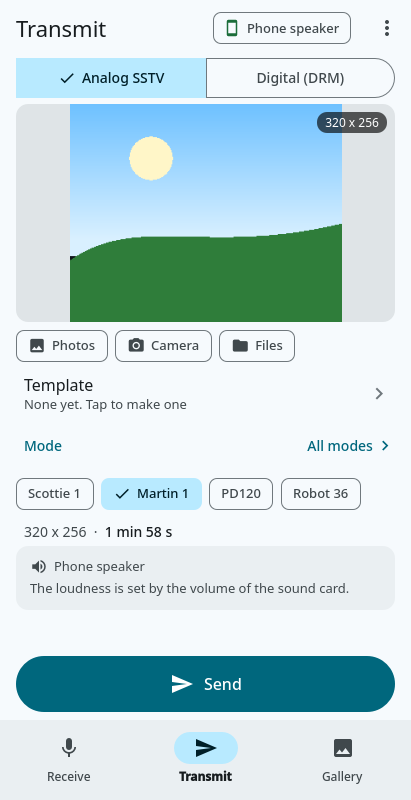
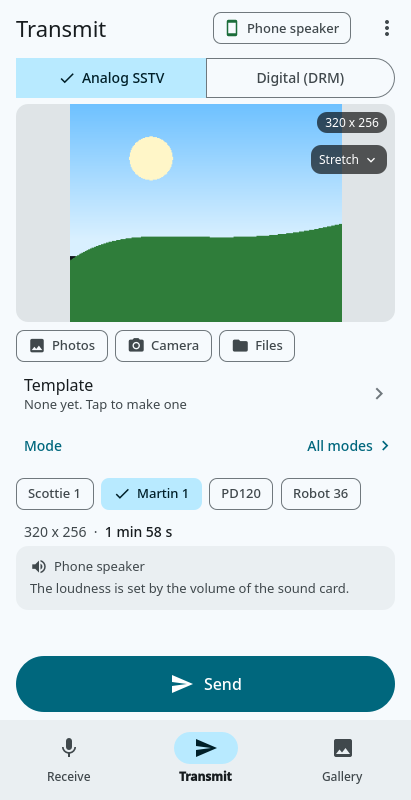
Android: the framing choice is a pill on the picture, under its size, so the Transmit screen has room for the volume (#178).
The Framing row under the picture (label, Reset, four chips, hint) is gone. A dark pill at the top right of the picture, under the size pill, names the framing (Stretch, Crop, Fit or Free) and a tap lists the four with the chosen one checked. Reset is a pill under it once the free picture has been moved; the hint "Pinch to zoom, drag to move." is a pill at the bottom of the picture while Free is chosen and the picture is not yet moved. A single digital picture (always Free) has no framing pill, only the hint and Reset. The pills are off while sending. At 411 x 800 the volume slider now ends 20 dp above the Send bar without scrolling; on small phones, with large text, in landscape and on the digital side it can still scroll out of view.

New PicturePill.qml, ThemedMenuItem got an optional check mark, FramingBlock.qml is removed. tests/qmlui: tx-framing and tx-digital-framing follow the pills, new scenes tx-framing-free, tx-framing-menu and tx-volume-room (fails on a tall phone if the slider is below the Send bar, reports the margin elsewhere). User's Guide and android-transmit.png updated.

Changed region(s): [[0.7591, 0.1562, 0.9635, 0.2188]]

diff --git a/src/qml/ui/TxPictureBlock.qml b/src/qml/ui/TxPictureBlock.qml
@@ -1,7 +1,8 @@
 import QtQuick
+import QtQuick.Controls.Material
 import QSSTV
 
-// The picture that will be sent, and where a picture comes from
+// The picture that will be sent, how it is framed, and where a picture comes from
 Column {
     id: block
     spacing: 8
@@ -111,12 +112,61 @@ Column {
                 font.pixelSize: Theme.sp(14)
             }
         }
-        Rectangle {
-            visible: TxController.hasPicture && !AppModel.digital
-            anchors.right: parent.right; anchors.top: parent.top; anchors.margins: 8
-            radius: 10; color: Theme.pictureShade
-            width: sizeText.implicitWidth + 16; height: sizeText.implicitHeight + 4
-            Text { id: sizeText; anchors.centerIn: parent; text: TxController.pictureSize; color: Theme.onPicture; font.pixelSize: Theme.sp(12) }
+        // at the top right, one under the other: the size of the picture; how it is framed (a tap lists Stretch, Crop, Fit and Free); Reset, once the
+        // free picture has been moved (#178: they were a row of their own under the picture, which took the room of the volume)
+        Column {
+            x: 8; y: 8
+            width: parent.width - 16
+            spacing: 12
+            PicturePill {
+                x: parent.width - width
+                visible: TxController.hasPicture && !AppModel.digital
+                text: TxController.pictureSize
+            }
+            PicturePill {
+                id: framingChip
+                objectName: "framingChip"
+                x: parent.width - width
+                visible: TxController.hasPicture && TxController.framingChoice
+                tappable: true
+                enabled: !TxController.sending
+                readonly property string name: [qsTr("Stretch"), qsTr("Crop"), qsTr("Fit"), qsTr("Free")][TxController.framing] || ""
+                text: name
+                trailingIcon: Icons.expand
+                onClicked: framingMenu.open()
+                Accessible.name: qsTr("Framing") + ", " + name
+                Menu {
+                    id: framingMenu
+                    objectName: "framingMenu"
+                    x: parent.width - width
+                    y: parent.height + 4
+                    background: Rectangle { implicitWidth: 160; color: Theme.surfaceHigh; radius: 4; border.width: 1; border.color: Theme.outlineVariant }
+                    ThemedMenuItem { objectName: "framingStretch"; text: qsTr("Stretch"); markColumn: true; marked: TxController.framing === 0; onTriggered: TxController.framing = 0 }
+                    ThemedMenuItem { objectName: "framingCrop"; text: qsTr("Crop"); markColumn: true; marked: TxController.framing === 1; onTriggered: TxController.framing = 1 }
+                    ThemedMenuItem { objectName: "framingFit"; text: qsTr("Fit"); markColumn: true; marked: TxController.framing === 2; onTriggered: TxController.framing = 2 }
+                    ThemedMenuItem { objectName: "framingFree"; text: qsTr("Free"); markColumn: true; marked: TxController.framing === 3; onTriggered: TxController.framing = 3 }
+                }
+            }
+            PicturePill {
+                objectName: "framingReset"
+                x: parent.width - width
+                visible: TxController.framingMoved
+                tappable: true
+                enabled: !TxController.sending
+                icon: Icons.reset
+                text: qsTr("Reset")
+                onClicked: TxController.resetFraming()
+                Accessible.name: qsTr("Reset zoom and position")
+            }
+        }
+        // how to place a free picture; gone once the picture has been moved (the Reset pill is there then)
+        PicturePill {
+            objectName: "framingHint"
+            anchors.horizontalCenter: parent.horizontalCenter
+            anchors.bottom: parent.bottom; anchors.bottomMargin: 8
+            visible: TxController.hasPicture && TxController.framingFree && !TxController.framingMoved && !TxController.sending
+            announced: true
+            text: qsTr("Pinch to zoom, drag to move.")
         }
         Accessible.role: Accessible.Graphic
         Accessible.name: TxController.hasPicture ? qsTr("Picture to send, %1").arg(TxController.pictureSize) : qsTr("No picture chosen")
@@ -124,8 +174,7 @@ Column {
     // the highest the picture may be in a screen that is short (set by the screen)
     property real maxCanvasHeight: 400
     // what lies under the picture (for a screen that shows this block beside the options and keeps the picture from taking all the height)
-    readonly property real belowHeight: (framing.visible ? framing.height + spacing : 0) + pickers.height + spacing
-    FramingBlock { id: framing; width: parent.width }
+    readonly property real belowHeight: pickers.height + spacing
     Flow {
         id: pickers
         x: Theme.margin

diff --git a/documentation/userguide/pages/android.html b/documentation/userguide/pages/android.html
@@ -62,7 +62,7 @@ title, the <strong>route chip</strong> that says where the sound goes (<em>Phone
 </div>
 <ul>
 <li><strong>The picture.</strong> <span class="ui">Photos</span> opens Android's photo picker, <span class="ui">Camera</span> takes a picture, <span class="ui">Files</span> opens the file picker. A picture shared from another app (<em>Share &gt; QSSTV-Experimental</em>) arrives here too, and so does one chosen in the Gallery.</li>
-<li><strong>Framing.</strong> Under the picture: how it fits the frame of the mode. <span class="ui">Stretch</span> fills the frame and may squash the picture, <span class="ui">Crop</span> fills it and cuts off the edges, <span class="ui">Fit</span> shows the whole picture with bars where it is too narrow, and with <span class="ui">Free</span> you place it yourself: pinch to zoom, drag to move, and <span class="ui">Reset</span> puts the whole picture back. A single picture on the <span class="ui">Digital (DRM)</span> side is always Free, so the four buttons are not there. The choice is kept, and it cannot be changed while a picture is being sent.</li>
+<li><strong>Framing.</strong> How the picture fits the frame of the mode: the small dark button at the top right of the picture, under its size, names the choice. Tap it to see the list. <span class="ui">Stretch</span> fills the frame and may squash the picture, <span class="ui">Crop</span> fills it and cuts off the edges, <span class="ui">Fit</span> shows the whole picture with bars where it is too narrow, and with <span class="ui">Free</span> you place it yourself: pinch to zoom, drag to move (a hint on the picture says so until you have moved it), and <span class="ui">Reset</span>, a button that appears under the framing one, puts the whole picture back. A single picture on the <span class="ui">Digital (DRM)</span> side is always Free, so the framing button is not there. The choice is kept, and it cannot be changed while a picture is being sent.</li>
 <li><strong>Template.</strong> The template that goes on the picture. Tap the row to choose one from the list (with a small picture of each), <span class="ui">None</span> to send the picture as it is, to <span class="ui">Edit this template</span> or to make a <span class="ui">New template</span>; see <em>Templates</em> below.</li>
 <li><strong>Details.</strong> Appears under <em>Template</em> while a template is on the picture. Tap it to set who the picture is for, the operator name and the report; your call sign comes from the settings.</li>
 <li><strong>The mode.</strong> The four buttons are favorites (Scottie 1, Martin 1, PD120, Robot 36); they stay in one row, so slide it sideways when the screen is too narrow to show them all. <span class="ui">All modes</span> lists every mode with its picture size and time. The time the transmission takes is always shown. On the <span class="ui">Digital (DRM)</span> side you choose one of the saved profiles and the size of the picture, with the estimated time.</li>

diff --git a/src/qml/ui/PicturePill.qml b/src/qml/ui/PicturePill.qml
@@ -1,0 +1,37 @@
+import QtQuick
+import QSSTV
+
+// A small dark pill on a picture: the size of the picture, how it is framed, Reset, a hint. With tappable it is a button; the taps it takes reach
+// tapGap beyond the pill, so pills that are tappable must be at least 2 x tapGap apart (the Column on the picture keeps them 12 dp apart).
+Rectangle {
+    id: pill
+    property string text
+    property string icon           // before the words
+    property string trailingIcon   // after the words (a down arrow says that a list opens)
+    property bool tappable: false
+    readonly property real tapGap: 6
+    signal clicked()
+    radius: 10
+    color: Theme.pictureShade
+    implicitWidth: row.implicitWidth + 16
+    implicitHeight: row.implicitHeight + (tappable ? 12 : 4)
+    opacity: enabled ? 1 : 0.38
+    Row {
+        id: row
+        anchors.centerIn: parent
+        spacing: 4
+        Icon { visible: pill.icon !== ""; path: pill.icon; color: Theme.onPicture; size: 16; anchors.verticalCenter: parent.verticalCenter }
+        Text { text: pill.text; color: Theme.onPicture; font.pixelSize: Theme.sp(12); anchors.verticalCenter: parent.verticalCenter }
+        Icon { visible: pill.trailingIcon !== ""; path: pill.trailingIcon; color: Theme.onPicture; size: 16; anchors.verticalCenter: parent.verticalCenter }
+    }
+    TapHandler {
+        enabled: pill.tappable
+        margin: pill.tapGap
+        onTapped: { pill.clicked(); AppModel.haptic(0) }
+    }
+    property bool announced: tappable   // a pill that only says something is read when it says more than the picture does (the hint), not for the size
+    Accessible.ignored: !announced
+    Accessible.role: tappable ? Accessible.Button : Accessible.StaticText
+    Accessible.name: text
+    Accessible.onPressAction: { if (tappable) pill.clicked() }
+}

diff --git a/src/qml/ui/ThemedMenuItem.qml b/src/qml/ui/ThemedMenuItem.qml
@@ -1,16 +1,33 @@
 import QtQuick
 import QtQuick.Controls.Material
 
-// One entry of the menu of the top bar, in the colors of the look
+// One entry of a menu, in the colors of the look. markColumn keeps room before the words for a check, and marked draws it (a menu that lists
+// the choices of one setting: the chosen one is checked); the menu of the top bar has neither.
 MenuItem {
     id: item
+    property bool marked: false
+    property bool markColumn: false
     implicitHeight: 48
-    contentItem: Text {
-        text: item.text
-        color: item.enabled ? Theme.surfaceOn : Theme.surfaceVariantOn
-        font.pixelSize: Theme.sp(16)
-        verticalAlignment: Text.AlignVCenter
-        elide: Text.ElideRight
+    contentItem: Item {
+        readonly property real lead: item.markColumn ? 28 : 0
+        implicitWidth: lead + label.implicitWidth
+        implicitHeight: label.implicitHeight
+        Icon {
+            visible: item.markColumn && item.marked
+            path: Icons.check; color: Theme.primary; size: 18
+            anchors.verticalCenter: parent.verticalCenter
+        }
+        Text {
+            id: label
+            x: parent.lead
+            width: parent.width - parent.lead
+            height: parent.height
+            text: item.text
+            color: item.enabled ? Theme.surfaceOn : Theme.surfaceVariantOn
+            font.pixelSize: Theme.sp(16)
+            verticalAlignment: Text.AlignVCenter
+            elide: Text.ElideRight
+        }
     }
     background: Rectangle { color: item.highlighted || item.down ? Theme.surfaceHigh : "transparent" }
 }

diff --git a/src/qml/ui/TransmitScreen.qml b/src/qml/ui/TransmitScreen.qml
@@ -22,6 +22,7 @@ Item {
     // Send, at the thumb, under everything
     Item {
         id: sendBar
+        objectName: "sendBar"
         anchors.left: parent.left; anchors.right: parent.right; anchors.bottom: parent.bottom
         height: 56 + 16
         WideButton {
@@ -59,7 +60,7 @@ Item {
         Item {
             visible: screen.wide
             anchors.fill: parent
-            // the picture, the framing and the ways to get a picture: they scroll when the screen is too low for them (a phone on its side)
+            // the picture (with its framing) and the ways to get a picture: they scroll when the screen is too low for them (a phone on its side)
             Flickable {
                 anchors.left: parent.left; anchors.top: parent.top; anchors.bottom: parent.bottom
                 width: parent.width * 0.5

diff --git a/tests/qmlui/shot.cpp b/tests/qmlui/shot.cpp
@@ -65,6 +65,16 @@ static QQuickItem *findShown(QQuickItem *root, const QString &name)
   return nullptr;
 }
 
+// is an item that is shown holding exactly this text (a Text, a chip, a pill)?
+static bool shownText(QQuickItem *root, const QString &word)
+{
+  if (!root->isVisible()) return false;
+  if (root->property("text").isValid() && root->property("text").toString() == word) return true;
+  for (QQuickItem *c : root->childItems())
+    if (shownText(c, word)) return true;
+  return false;
+}
+
 static void feedWaterfall(int frames)
 {
   // what the receiver sends the spectrum display: tones of an SSTV line and some noise
@@ -258,6 +268,8 @@ int main(int argc, char **argv)
         for (QQuickItem *c : it->childItems()) closeStarters(c);
       };
       closeStarters(win->contentItem());
+      // the list of the framing pill (tx-framing-menu) is a popup too
+      if (findShown(win->contentItem(), "framingStretch")) {QTest::keyClick(win, Qt::Key_Escape); QTest::qWait(300);}
       if (QQuickItem *box = findItem(win->contentItem(), "problemDialog")) box->setProperty("open", false);   // a scene that showed one does not leave it over the next
       if (QQuickItem *box = findItem(win->contentItem(), "speakerDialog")) box->setProperty("open", false);
       TxController::instance()->setTestSending(-1);
@@ -610,6 +622,9 @@ int main(int argc, char **argv)
           auto is = [](const QColor &a, const QColor &b) {return qAbs(a.red() - b.red()) + qAbs(a.green() - b.green()) + qAbs(a.blue() - b.blue()) < 100;};
           auto pageBox = [&]() {QComboBox *b = txWidgetPtr->findChild<QComboBox *>(QStringLiteral("sstvResizeComboBox")); return b ? b->currentIndex() : -1;};
           auto frame = [&](int mode) {tx->setFraming(mode); QTest::qWait(200); tx->picture().save(QString("%1/framing-%2x%3-%4.png").arg(outDir).arg(width).arg(height).arg(mode)); return tx->picture();};   // the frames are kept for looking at
+          // the framing is a pill on the picture (#178): it names the framing, and the hint on how to place the picture is there while Free is not moved
+          auto pillWord = [&]() {QQuickItem *p = findShown(content, "framingChip"); return p ? p->property("text").toString() : QString();};
+          auto hintShown = [&]() {return findShown(content, "framingHint") != nullptr;};
           // the width of the white square in the middle of the picture, in the middle row of a frame
           auto whiteRun = [](const QImage &f) {
             int best = 0, run = 0;
@@ -627,18 +642,24 @@ int main(int argc, char **argv)
           if (!tx->framingChoice()) fail("no choice of framing in an analog mode");
           frame(0);   // Stretch: everything of the picture, the green column at the left edge, no bars
           if (tx->framing() != 0 || pageBox() != 0) fail("Stretch is not the page's framing");
+          if (pillWord() != QStringLiteral("Stretch") || hintShown()) fail("the pill does not say Stretch, or there is a hint to place the picture");
+          if (shownText(content, QStringLiteral("Framing"))) fail("the word Framing is still on the screen");
           if (!is(at(0.005, 0.5), green) || !is(at(0.5, 0.01), blue)) fail("Stretch does not fill the frame with the whole picture");
           frame(1);   // Crop: fills the frame, the edges are cut off (a 2:1 picture in a frame near 5:4)
           if (tx->framing() != 1 || pageBox() != 1) fail("Crop is not the page's framing");
+          if (pillWord() != QStringLiteral("Crop") || hintShown()) fail("the pill does not say Crop, or there is a hint to place the picture");
           if (is(at(0.005, 0.5), green) || !is(at(0.5, 0.01), blue)) fail("Crop does not cut the edges and fill the frame");
           frame(2);   // Fit: the whole picture, bars above and below
           if (tx->framing() != 2 || pageBox() != 2) fail("Fit is not the page's framing");
+          if (pillWord() != QStringLiteral("Fit") || hintShown()) fail("the pill does not say Fit, or there is a hint to place the picture");
           // the bars of Fit are empty (they go out black); the ones of Free are the background color of the pictures
           if (!is(at(0.005, 0.5), green) || !is(at(0.5, 0.01), QColor(Qt::black)) || !is(at(0.5, 0.99), QColor(Qt::black))) fail("Fit does not show the whole picture between bars");
           if (tx->framingFree() || tx->framingMoved()) fail("Fit is placed by hand");
           frame(3);   // Free: as Fit to begin with
           if (tx->framing() != 3 || pageBox() != 3) fail("Free is not the page's framing");
           if (!tx->framingFree() || tx->framingMoved()) fail("Free is not ready to be placed, or already moved");
+          if (pillWord() != QStringLiteral("Free") || !hintShown()) fail("the pill does not say Free, or there is no hint to place the picture");
+          if (findShown(content, "framingReset")) fail("a Reset pill for a picture that is not moved");
           if (!is(at(0.005, 0.5), green) || !is(at(0.5, 0.01), grey)) fail("Free does not begin with the whole picture");
           whiteBefore = whiteRun(tx->picture());
           // the picture moves with a finger: one drag with the mouse on the picture
@@ -655,6 +676,8 @@ int main(int argc, char **argv)
               printf("  drag down: moved %d, bottom bar is %s\n", tx->framingMoved(), is(at(0.5, 0.99), grey) ? "still there" : "gone");
               if (!tx->framingMoved()) fail("a drag on the picture did not move it");
               else if (is(at(0.5, 0.99), grey)) fail("the picture did not move down");
+              if (hintShown()) fail("the hint to place the picture stays after the picture was moved");
+              if (!findShown(content, "framingReset")) fail("no Reset pill after the picture was moved");
               tx->resetFraming();
               QTest::qWait(200);
               if (tx->framingMoved() || !is(at(0.5, 0.99), grey)) fail("Reset did not bring the whole picture back");
@@ -710,21 +733,26 @@ int main(int argc, char **argv)
           if (!is(at(0.02, 0.5), green)) fail("moved as far as it goes, the edge of the picture that was out of the frame does not come in");
           tx->resetFraming();
           QTest::qWait(200);
-          // a tap on the Stretch chip chooses it
-          QQuickItem *chips = findShown(content, "framingChips");
-          QQuickItem *stretch = nullptr;
-          if (chips)
-            if (QQuickItem *ci = qvariant_cast<QQuickItem *>(chips->property("contentItem")))
-              for (QQuickItem *row : ci->childItems())
-                for (QQuickItem *c : row->childItems())
-                  if (c->isVisible() && c->property("text").toString() == QStringLiteral("Stretch")) stretch = c;
-          if (!stretch) fail("no Stretch chip");
+          // a tap on the framing pill lists the choices (the chosen one checked); a tap on Stretch chooses it, and the picture is not moved by the taps
+          QQuickItem *pill = findShown(content, "framingChip");
+          if (!pill) fail("no framing pill on the picture");
           else
             {
-              revealItem(stretch);
-              QTest::mouseClick(win, Qt::LeftButton, {}, stretch->mapToScene(QPointF(stretch->width() / 2, stretch->height() / 2)).toPoint());
-              QTest::qWait(300);
-              if (tx->framing() != 0) fail("a tap on the Stretch chip did not choose Stretch");
+              revealItem(pill);
+              QTest::mouseClick(win, Qt::LeftButton, {}, pill->mapToScene(QPointF(pill->width() / 2, pill->height() / 2)).toPoint());
+              QTest::qWait(500);
+              QQuickItem *stretch = findShown(win->contentItem(), "framingStretch"), *free = findShown(win->contentItem(), "framingFree");
+              if (!stretch || !free) fail("a tap on the framing pill did not list the choices");
+              else
+                {
+                  if (!free->property("marked").toBool() || stretch->property("marked").toBool()) fail("the list does not check the chosen framing (Free)");
+                  QTest::mouseClick(win, Qt::LeftButton, {}, stretch->mapToScene(QPointF(stretch->width() / 2, stretch->height() / 2)).toPoint());
+                  QTest::qWait(400);
+                  if (tx->framing() != 0) fail("a tap on Stretch in the list did not choose Stretch");
+                  if (pillWord() != QStringLiteral("Stretch")) fail("the pill does not follow the choice");
+                  if (tx->framingMoved()) fail("the taps on the pill moved the picture");
+                  if (findShown(win->contentItem(), "framingStretch")) fail("the list stays open after a choice");
+                }
             }
           // while a transmission goes on the picture is not placed
           tx->setFraming(3);
@@ -733,12 +761,40 @@ int main(int argc, char **argv)
           tx->setFraming(1);
           if (tx->framing() != 3) fail("the framing was changed during a transmission");
           if (tx->adjustFraming(2, 0.5, 0.5, 0, 0)) fail("the picture was zoomed during a transmission");
+          QTest::qWait(300);
+          if (hintShown()) fail("the hint to place the picture is shown during a transmission");
+          if (QQuickItem *p = findShown(content, "framingChip")) {if (p->isEnabled()) fail("the framing pill can be tapped during a transmission");}
           tx->setTestSending(-1);
+          QTest::qWait(300);
           // the screenshot: Free, zoomed a little, with the hint and Reset
           if (!tx->adjustFraming(1.6, 0.5, 0.5, 0.05, 0)) fail("no zoom by program");
           QTest::qWait(400);
           if (!tx->framingMoved()) fail("not moved after a zoom");
           if (pageBox() != 3) fail("the page's framing box was left in another position");
+        }
+      if (scene == "tx-framing-free" || scene == "tx-framing-menu")
+        {
+          // Free and not moved yet: the hint is on the picture (the screenshot); tx-framing-menu leaves the list of the framing pill open (the screenshot)
+          TxController *tx = TxController::instance();
+          auto fail = [&](const char *what) {fprintf(stderr, "FAIL: %s: %s\n", qPrintable(scene), what); exitCode = 1;};
+          tx->setFraming(3);
+          QTest::qWait(400);
+          QQuickItem *hint = findShown(content, "framingHint");
+          if (!hint) fail("no hint to place the free picture");
+          else if (hint->mapToScene(QPointF(0, 0)).x() < 0 || hint->mapToScene(QPointF(hint->width(), 0)).x() > width) fail("the hint runs out of the window");
+          if (scene == "tx-framing-menu")
+            {
+              QQuickItem *pill = findShown(content, "framingChip");
+              if (!pill) fail("no framing pill");
+              else
+                {
+                  QTest::mouseClick(win, Qt::LeftButton, {}, pill->mapToScene(QPointF(pill->width() / 2, pill->height() / 2)).toPoint());
+                  QTest::qWait(500);
+                  QQuickItem *crop = findShown(win->contentItem(), "framingCrop");
+                  if (!crop) fail("the list of choices is not open");
+                  else if (crop->mapToScene(QPointF(0, 0)).x() < 0 || crop->mapToScene(QPointF(crop->width(), 0)).x() > width) fail("the list runs out of the window");
+                }
+            }
         }
       if (scene == "tx-digital-framing")
         {
@@ -749,6 +805,8 @@ int main(int argc, char **argv)
           if (tx->framingChoice()) fail("a choice of framing for a single digital picture");
           if (tx->framing() != 3) fail("a single digital picture is not Free");
           if (!tx->framingFree()) fail("a single digital picture cannot be placed");
+          if (findShown(content, "framingChip")) fail("a framing pill for a single digital picture");
+          if (!findShown(content, "framingHint")) fail("no hint to place the digital picture");
           tx->setFraming(0);
           if (tx->framing() != 3) fail("the framing of a single digital picture was changed");
           const int before = tx->pictureRevision();
@@ -756,6 +814,8 @@ int main(int argc, char **argv)
           QTest::qWait(2500);   // it is drawn and encoded again once the movement has settled
           printf("  digital zoom: moved %d, picture revision %d -> %d\n", tx->framingMoved(), before, tx->pictureRevision());
           if (!tx->framingMoved()) fail("the digital picture is not moved after a zoom");
+          if (!findShown(content, "framingReset")) fail("no Reset pill for the moved digital picture");
+          if (findShown(content, "framingHint")) fail("the hint to place the digital picture stays after it was moved");
           if (tx->pictureRevision() == before) fail("the digital picture was not drawn again");
         }
       if (scene == "tx-sending" || scene == "tx-sending-mismatch" || scene.startsWith("tx-digital-sending"))
@@ -815,6 +875,24 @@ int main(int argc, char **argv)
               // there is no sound card here: the restarts said so in a "Soundcard error" box, which must not stay over the scenes that follow
               if (QQuickItem *box = findItem(win->contentItem(), "problemDialog")) box->setProperty("open", false);
               QTest::qWait(300);
+            }
+        }
+      if (scene == "tx-volume-room")
+        {
+          // the volume card (the device, the percentage, the slider) is in view above the Send bar without scrolling the page (#178: the framing row under the
+          // picture used to push it out of view). On a tall phone that is a failure; on a small one, with large text, or a phone on its side, it is only reported
+          auto fail = [&](const char *what) {fprintf(stderr, "FAIL: tx-volume-room: %s\n", what); exitCode = 1;};
+          QQuickItem *slider = findShown(content, "mediaVolumeSlider"), *send = findShown(content, "sendBar");
+          if (!slider || !send) fail("no mediaVolumeSlider / sendBar item");
+          else
+            {
+              for (QQuickItem *p = slider->parentItem(); p; p = p->parentItem())   // the page at its top, as a phone shows it after a start
+                if (QString::fromLatin1(p->metaObject()->className()) == "QQuickFlickable") {p->setProperty("contentY", 0); break;}
+              QTest::qWait(300);
+              const qreal bottom = slider->mapToScene(QPointF(0, slider->height())).y(), top = send->mapToScene(QPointF(0, 0)).y();
+              const bool tallPhone = width < 600 && height >= 800 && app_->fontScale() <= 1.0;
+              printf("  volume slider bottom at %.0f, Send bar top at %.0f: %.0f dp %s (window %d x %d)\n", bottom, top, qAbs(top - bottom), bottom <= top ? "to spare" : "short", width, height);
+              if (tallPhone && bottom > top) fail("the volume slider is below the Send bar on a tall phone without scrolling");
             }
         }
       if (scene == "tx-volume")
